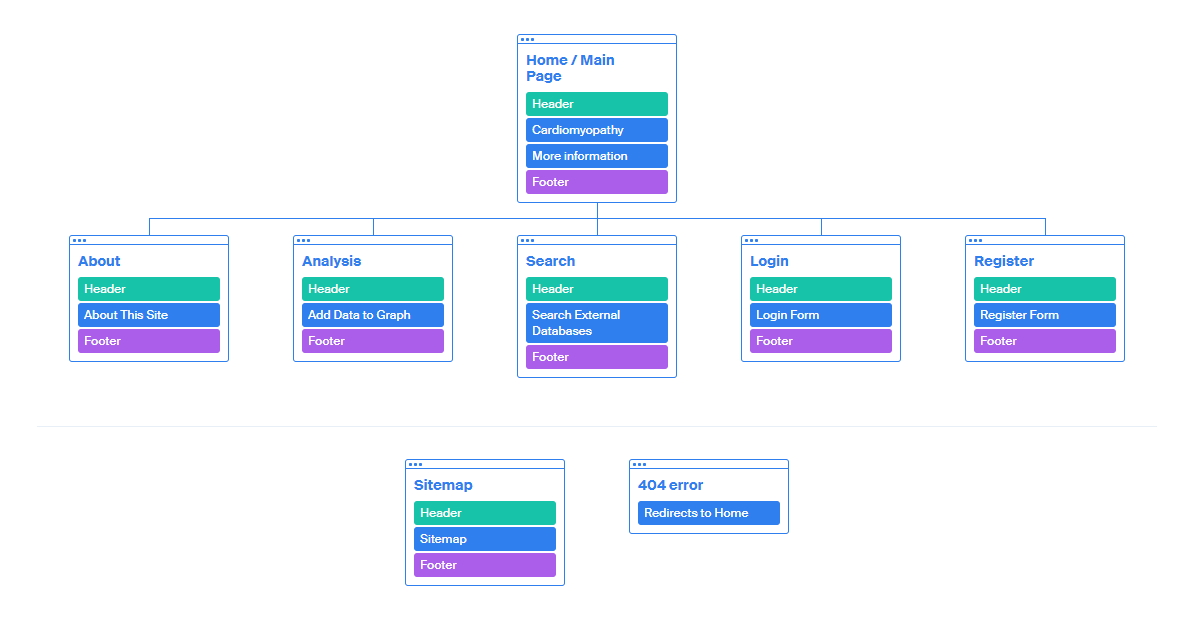
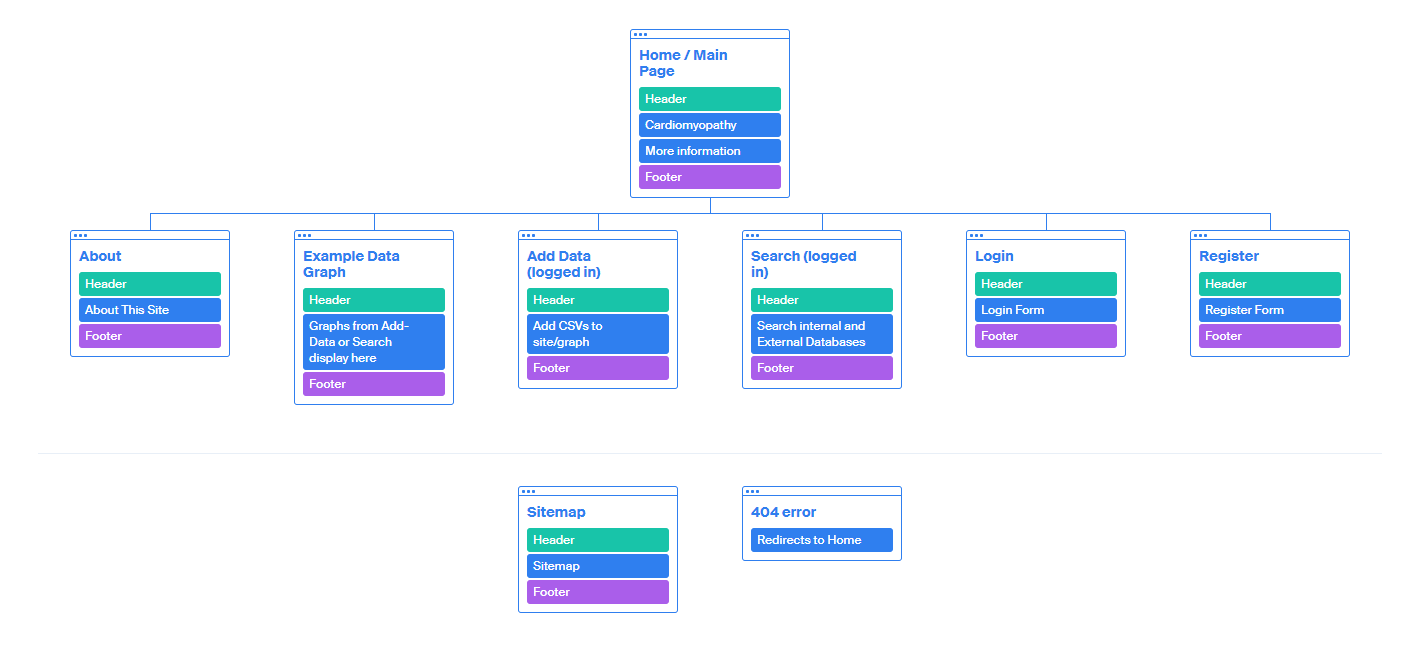
Removed Analysis as it's not been used

Changed region(s): [[0.0309, 0.0304, 0.9566, 0.6394], [0.3394, 0.7308, 0.4937, 0.9439], [0.5246, 0.7308, 0.648, 0.883]]

diff --git a/src/router/index.js b/src/router/index.js
@@ -3,7 +3,6 @@ import AddData from "@/views/AddData/AddData.vue";
 import HeartData from "@/views/HeartData/HeartData.vue";
 import Home from "@/views/Home.vue";
 import About from "@/views/About.vue";
-import Analysis from "@/views/Analysis.vue";
 import firebaseTests from "@/firebase/firebaseTests/FirebaseTests.vue";
 import Sitemap from "@/views/Sitemap.vue";
 import Login from "@/views/account/Login.vue";
@@ -57,12 +56,6 @@ const routes = [
     // which is lazy-loaded when the route is visited.
     component: HeartData,
     meta: { title: "HeartData | Cardiomyopathy" },
-  },
-  {
-    path: "/analysis",
-    name: "Analysis",
-    component: Analysis,
-    meta: { title: "Analysis | Cardiomyopathy" },
   },
   {
     path: "/login",

diff --git a/src/components/Header.vue b/src/components/Header.vue
@@ -10,11 +10,6 @@
         >
       </li>
       <li class="nav-item">
-        <router-link :to="{ name: 'Analysis' }" class="nav-link"
-          >Analysis</router-link
-        >
-      </li>
-      <li class="nav-item">
         <router-link
           :to="{
             name: 'Graph',
